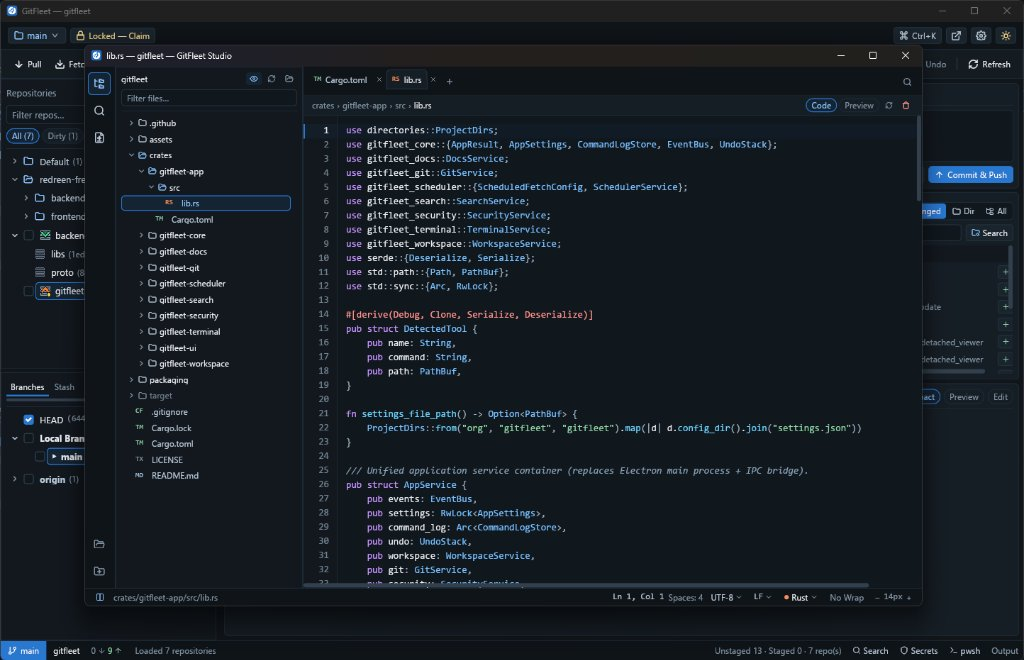
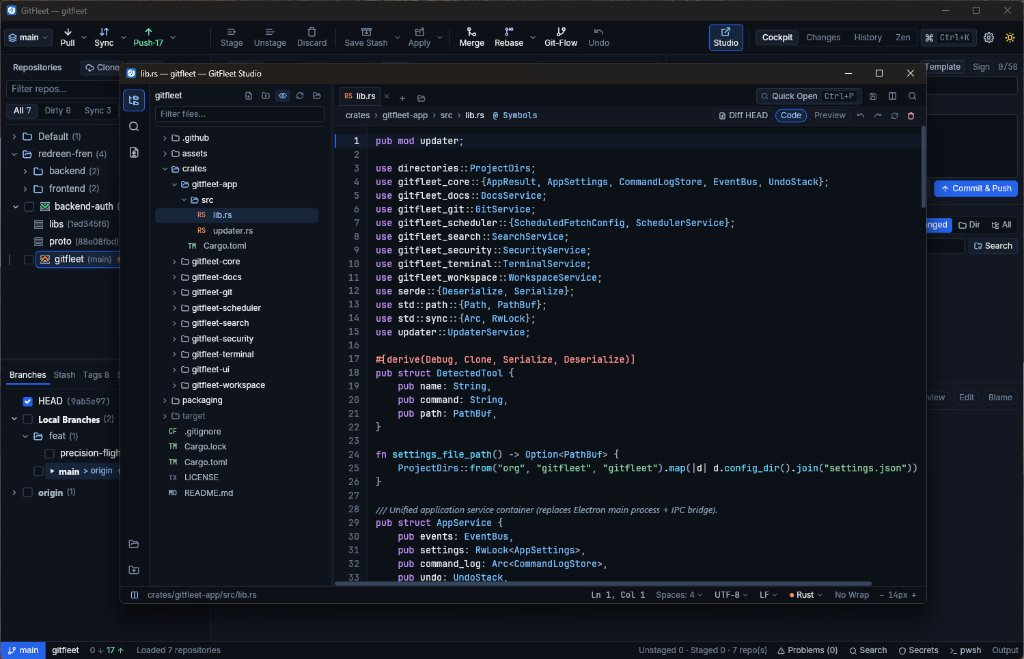
chore(release): update README UI previews and bump version to 0.7.0

diff --git a/README.md b/README.md
@@ -15,53 +15,59 @@
   <a href="#architecture"><img src="https://img.shields.io/badge/unsafe__code-forbid-brightgreen.svg" alt="unsafe_code forbid" /></a>
 </p>
 
-Built on native [`iced`](https://github.com/iced-rs/iced) with zero Electron or WebView overhead, **GitFleet** pairs SmartGit-inspired commit graph & branch ergonomics with multi-repository fleet operations, **GitFleet Studio** (an integrated multi-tab code editor & standalone diff workbench), visual Image/CSV diffing, an interactive conflict solver, a multi-profile encrypted secrets vault, and a built-in PTY terminal.
+Built on native [`iced`](https://github.com/iced-rs/iced) with zero Electron or WebView overhead, **GitFleet** pairs a SmartGit-inspired column-aligned Cockpit & commit graph with multi-repository fleet operations, **GitFleet Studio** (an integrated multi-tab code editor & standalone diff workbench), a 3-layer semantic theme engine, visual Image/CSV diffing, an interactive conflict solver, a multi-profile encrypted secrets vault, and a built-in PTY terminal.
 
 <p align="center">
-  <img src="assets/screenshots/gitfleet-workspace.jpg" alt="GitFleet Main Workspace — multi-repository groups, commit graph, branch tree, files panel, and side-by-side diff" />
+  <img src="assets/screenshots/gitfleet-workspace.jpg" alt="GitFleet Main Cockpit — column-aligned SmartGit ribbon, nested repository groups, commit graph, multi-line commit composer, and workspace status bar" />
 </p>
 
 ---
 
 ## Highlights & Features
 
-### Multi-Repository Fleet Workspace
-- **Nested Repository Groups**: Organize dozens of repositories into nested groups with auto-grouped folder scanning, drag-and-drop regrouping, cascading **Rename Group** (updates subgroups, collapse state, and group secret keys), and workspace renaming.
-- **Live Sync & Submodule Indicators**: Real-time `↑ ahead` / `↓ behind` counters and dirty badges on repositories and submodules, `All` / `Dirty` / `Sync` filters, and saved `.gitfleet` workspaces with multi-instance **Lock / Claim** ownership protection.
-- **Fleet Bulk Operations**: Run Fetch, Pull, Push, ordered dependency pushes, or quick Repo Commit popups across selected repositories with live progress and instant cancellation.
+### Multi-Repository Fleet Cockpit
+- **SmartGit-Aligned Ribbon & 4 Workspace Layouts**: Column-aligned action Ribbon (`Pull` / `Sync` / `Push` with split-dropdown options, `Stage` / `Unstage` / `Discard` / `Save Stash` / `Apply`, `Merge` / `Rebase` / `Git-Flow` / `Undo`, and `Studio`) paired with instant layout presets (**Cockpit**, **Changes**, **History**, and **Zen**).
+- **Auto-Stash Pull & Sync**: Pull or Sync safely even with dirty working-tree changes — GitFleet can automatically stash local modifications before pulling/rebasing and re-apply them cleanly afterward (preserving the stash safely if conflicts arise).
+- **Nested Repository Groups & Portable Blueprints**: Organize dozens of repositories into nested groups with auto-grouped folder scanning, drag-and-drop regrouping, cascading **Rename Group**, and **Portable Group Blueprints** (export a group hierarchy to JSON and auto-clone every repo on another machine with SSH/HTTPS URL rewriting).
+- **Live Sync, Clone & Submodule Indicators**: Real-time `↑ ahead` / `↓ behind` counters and dirty badges on repositories and submodules, standalone **Clone Repository** modal with live progress & cancellation, `All` / `Dirty` / `Sync` filters, and `.gitfleet` workspaces with multi-instance **Lock / Claim** ownership protection.
 
-### Commit Graph & Branch Tree
-- **Smart Commit Graph**: Multi-lane graph showing upstream `origin` divergence (`+9 ▶ main`, `origin = ▶ main`, `-10 ▶ develop`), Working Tree / Index node above `HEAD`, automatic graph & branch refresh on external commits/ref updates, reflog inspection, cherry-pick, revert, and soft/mixed/hard reset with per-repo undo history.
-- **Unified Branch Tree**: Nested branch groups with checkboxes, sleek ahead/behind counters, worktree indicators, `Add Branch… (F7)`, `Rename Branch… (F2)`, smart unmerged branch deletion, and `Merge… (Ctrl+M)` / `Rebase… (Ctrl+D)` / `Fast-Forward Merge`.
+### Commit Graph, Interactive Rebase & Branch Tree
+- **Smart Commit Graph**: Multi-lane graph showing upstream `origin` divergence (`+17 ▶ main`, `origin = ▶ main`), Working Tree / Index node above `HEAD`, two-commit **Range Compare**, per-file **Stash Inspector**, file history (`--follow` across renames), reflog inspection, cherry-pick, revert, and soft/mixed/hard reset with per-repo undo history.
+- **Visual Interactive Rebase & Multi-Line Commit Composer**: Reorder commits and toggle `pick` / `reword` / `squash` / `fixup` / `drop` visually without terminal editors; compose commits with Conventional Commit quick chips (`feat`, `fix`, `refactor`, `perf`, `docs`, `chore`), multi-line body editor, commit templates, and GPG/SSH commit signing.
+- **Unified Branch Tree**: Nested branch groups with checkboxes, sleek ahead/behind counters, worktree & stash tabs, `Add Branch… (F7)`, `Rename Branch… (F2)`, smart unmerged branch deletion, and `Merge… (Ctrl+M)` / `Rebase… (Ctrl+D)` / `Fast-Forward Merge`.
 
 ### GitFleet Studio — Native Multi-Tab Code Editor & Diff Workbench
 
 <p align="center">
-  <img src="assets/screenshots/gitfleet-studio.jpg" alt="GitFleet Studio — explorer with dimmed gitignored folders, syntax-highlighted code editor with sticky line numbers, and interactive status bar" />
+  <img src="assets/screenshots/gitfleet-studio.jpg" alt="GitFleet Studio — git-aware explorer, Quick Open, breadcrumb symbol outline, syntax-highlighted code editor with sticky line numbers, and status bar" />
 </p>
 
-- **Native Multi-Tab Code Editor**: Instant asynchronous file opening with lazy buffer hydration, syntax highlighting across **19 languages**, sticky pixel-aligned **line numbers** (wrap-aware & zoom-aware), active-line highlighting, `Tab` indentation, **Word Wrap (`Alt+Z`)**, and live **Font Zoom (`Ctrl+=` / `Ctrl+-`)**.
-- **Explorer Sidebar & File Operations**: Dimmed gitignored files and lazy-expanded ignored directories (such as `target/` and `node_modules/`), plus inline **Rename**, **Delete** (with `.git` and path-traversal protection), and **Add to `.gitignore`** (Glob & Regex modes with live match preview).
-- **Search & Replace**: VS Code-style **Folder Search & Replace** (regex, case sensitivity, whole-word, include/exclude globs, single-match and replace-all) alongside **In-File Find & Replace** (`Ctrl+F` / `Ctrl+H`).
-- **Encoding, EOL & Standalone Compare**: Interactive status bar menus for file **Encoding** (`UTF-8`, `UTF-8 BOM`, `UTF-16`, `Windows-1252` — Save or Reopen), **Line Endings** (`LF` / `CRLF`), and **Syntax Language**, plus standalone **Compare Any Two Local Files** (text, image, and CSV).
+- **Native Multi-Tab Code Editor**: Instant asynchronous file opening, per-tab **Undo / Redo**, untitled scratch tabs & **Save As**, **Quick Open (`Ctrl+P`)**, **Symbol Outline (`Ctrl+Shift+O`)**, **Go to Line (`Ctrl+G`)**, syntax highlighting across **19 languages**, sticky pixel-aligned **line numbers**, indent guides, bracket matching, toggle comments (`Ctrl+/`), move lines (`Alt+↑/↓`), **Word Wrap (`Alt+Z`)**, and live **Font Zoom (`Ctrl+=` / `Ctrl+-`)**.
+- **Virtualized Large-File Engine**: Opens multi-thousand-line files (such as `Cargo.lock` or large logs) with zero UI lag via O(visible) line virtualization and on-demand windowed slice editing.
+- **Git-Aware Explorer & Split Live Preview**: Color-coded Git status badges on files/folders, live added/modified/deleted gutter marks, one-click **Diff HEAD**, side-by-side live Markdown/JSON/code preview, dimmed gitignored entries, and inline **Create / Duplicate / Rename / Delete / Add to `.gitignore`**.
+- **Search, Replace & Standalone Compare**: VS Code-style **Folder Search & Replace** alongside **In-File Find & Replace** (`Ctrl+F` / `Ctrl+H`), interactive status bar menus for **Encoding**, **Line Endings** (`LF` / `CRLF`), and **Syntax Language**, plus standalone **Compare Any Two Local Files** (text, image, and CSV).
 
-### Virtualized Diff, Rich Preview & Live Editor
-- **Side-by-Side & Unified Diffs**: Virtualized diff engine with synced scrolling, cubic Bezier change connectors, edge overview minimaps, compact/expandable unchanged gaps, inline token highlights, selectable/copyable diff text, and hunk-level stage/unstage/discard.
+### Virtualized Diff, Blame, Rich Preview & Live Editor
+- **SmartGit-Grade Side-by-Side & Unified Diffs**: Virtualized diff engine with unified vertical & horizontal scrollbars, **28px cubic-Bezier S-curve change connectors**, 2px insertion/deletion seams, **dual Left/Right diff-position overview bars** with live viewport indicator & click/drag-to-jump, shared expandable `hidden lines` bars, intra-line token highlights, and **partial line & hunk stage/unstage/discard**.
+- **Per-Line Git Blame**: Virtualized blame view showing commit hash, author, timestamp, and one-click jump to the originating commit in the graph.
 - **Visual Image Diff & CSV Table Diff**:
   - **Image Diff**: 2-Up, Swipe, Onion Skin, Blink, and Pixel Diff for raster images (PNG, JPEG, WebP, GIF, BMP) and SVG.
   - **CSV / TSV Table Diff**: Keyed row pairing, cell-level change highlights, and format-noise detection.
-- **Rich Preview & Inline Editor**: Rendered previews for Markdown, SVG, images, formatted JSON, CSV tables, and configs; syntax-highlighted **Code Preview** and inline **Live File Editor (`Ctrl+S`)** both equipped with **sticky line numbers**, scrollbars, and automatic live reload on external edits.
-- **Calm Files Panel**: Unstaged & auto-showing Staged split views (`Changed` / `Dir` / `All` tabs), color-coded file states, multi-file selection (`Shift+Click`, `Ctrl+Click`, `Ctrl+A`), and full file operations (Rename, Delete, Add to `.gitignore`, Open in GitFleet Studio).
+- **Virtualized Rich Preview & Inline Editor**: Instant O(visible) syntax-highlighted **Code Preview**, rendered Markdown/SVG/JSON/CSV views, historical commit snapshot viewer, and inline **Live File Editor (`Ctrl+S`)**.
 
 ### Live Merge Forecast & Interactive Conflict Solver
 - **Zero-Touch Merge Forecast**: Runs in-memory conflict detection (`git merge-tree --write-tree`) before modifying your working tree, supporting **Create Merge-Commit** (`--no-ff`), **Merge to Working Tree** (`--no-commit --no-ff`), **Squash-Merge** (`--squash`), **Fast-Forward**, and **Rebase**.
 - **Hunk-by-Hunk Conflict Solver**: Parses 2-way and `diff3`/`zdiff3` markers with side-by-side Ours vs Theirs inspection, `Accept Ours` / `Accept Theirs` / `Accept Both` / `Theirs + Ours` / inline manual edit, Prev/Next navigation, EOL preservation, and one-click **Save & Mark Resolved** (`git add`).
 
-### Multi-Profile Secrets Vault & Integrated Developer Tools
-- **Multi-Profile [`age`](https://age-encryption.org/) Secrets Vault**: Encrypted `.gitfleet/secrets.age` vault supporting multiple machine profiles and named per-group/per-repo secret keys, selective `.env` / TOML / YAML syncing across machines, auto-decrypt & rekey, staged secret scanning with allowlists, oversized-file guard, and multi-layer `.gitignore` management (Glob & Regex).
-- **Integrated PTY Terminal**: Multi-tab terminal with split panes, automatic shell profile detection (PowerShell, CMD, Git Bash, WSL, zsh/bash), customizable system fonts, and clipboard support.
-- **Fleet Search**: Streaming cross-repository code search with instant cancellation.
-- **Dark & Light Themes**: Carefully tuned native themes with 12px+ readable typography and resizable split panes.
+### 3-Layer Semantic Themes, Secrets Vault & Integrated Dock
+
+<p align="center">
+  <img src="assets/screenshots/gitfleet-themes.jpg" alt="GitFleet Settings & Appearance — 5 semantic theme presets, custom JSON theme import/export, and integrated PTY terminal dock" />
+</p>
+
+- **5 Curated Theme Presets + Custom JSON**: Built on a 3-layer semantic color token architecture with **Precision Obsidian**, **Daylight Crisp**, **GitHub Dimmed**, **Catppuccin Mocha**, and **Tokyo Night** out of the box, bundled *Inter* & *JetBrains Mono* fonts, WCAG-verified diff contrast, and custom `.json` theme import/export.
+- **Multi-Profile [`age`](https://age-encryption.org/) Secrets Vault**: Encrypted `.gitfleet/secrets.age` vault supporting multiple machine profiles and named per-group/per-repo secret keys, selective `.env` / TOML / YAML syncing across machines, auto-decrypt & rekey, staged secret scanning with allowlists, and oversized-file guard.
+- **Integrated Developer Dock**: Multi-tab **PTY Terminal** with split panes & automatic shell detection (PowerShell, CMD, Git Bash, WSL, zsh/bash), workspace **Problems** aggregator, streaming cross-repo **Fleet Search & Replace**, interactive **Ignore Rule Tester**, and structured **Git Command Log Inspector**.
 
 ---
 
@@ -94,13 +100,17 @@ Built on native [`iced`](https://github.com/iced-rs/iced) with zero Electron or 
 
 | Shortcut | Action |
 | :--- | :--- |
-| `Ctrl+O` | Open Local File |
-| `Ctrl+S` | Save Active Tab |
-| `Ctrl+W` | Close Active Tab |
+| `Ctrl+N` / `Ctrl+O` | New Scratch Tab / Open Local File |
+| `Ctrl+P` / `Ctrl+Shift+O` | Quick Open File / Symbol Outline |
+| `Ctrl+G` | Go to Line (`line` or `line:col`) |
+| `Ctrl+S` / `Ctrl+Shift+S` | Save / Save As |
+| `Ctrl+W` / `Ctrl+Shift+T` | Close Active Tab / Reopen Closed Tab |
+| `Ctrl+Z` / `Ctrl+Y` | Undo / Redo (per tab) |
+| `Ctrl+/` · `Alt+↑` / `Alt+↓` | Toggle Comment · Move Line Up / Down |
 | `Ctrl+F` / `Ctrl+H` | In-File Find / Find & Replace |
 | `Ctrl+Shift+F` | Folder Search & Replace Sidebar |
-| `Ctrl+Shift+E` | Focus Explorer Sidebar |
-| `Ctrl+B` | Toggle Sidebar |
+| `Ctrl+Shift+E` / `Ctrl+B` | Focus Explorer / Toggle Sidebar |
+| `Ctrl+\` | Toggle Split Live Preview |
 | `Alt+Z` | Toggle Word Wrap |
 | `Ctrl+=` / `Ctrl+-` | Increase / Decrease Editor Font Size |
 
@@ -225,8 +235,8 @@ cargo build --release --locked -p gitfleet-ui
 GitHub Actions ([.github/workflows/release.yml](.github/workflows/release.yml)) runs strict checks (`-D warnings`), native unit tests, and packages all 5 platform/architecture targets automatically whenever a version tag matching `v*` is pushed (or when triggered manually via **Actions → Release → Run workflow**):
 
 ```bash
-git tag v0.6.1
-git push origin v0.6.1
+git tag v0.7.0
+git push origin v0.7.0
 ```
 
 ---
